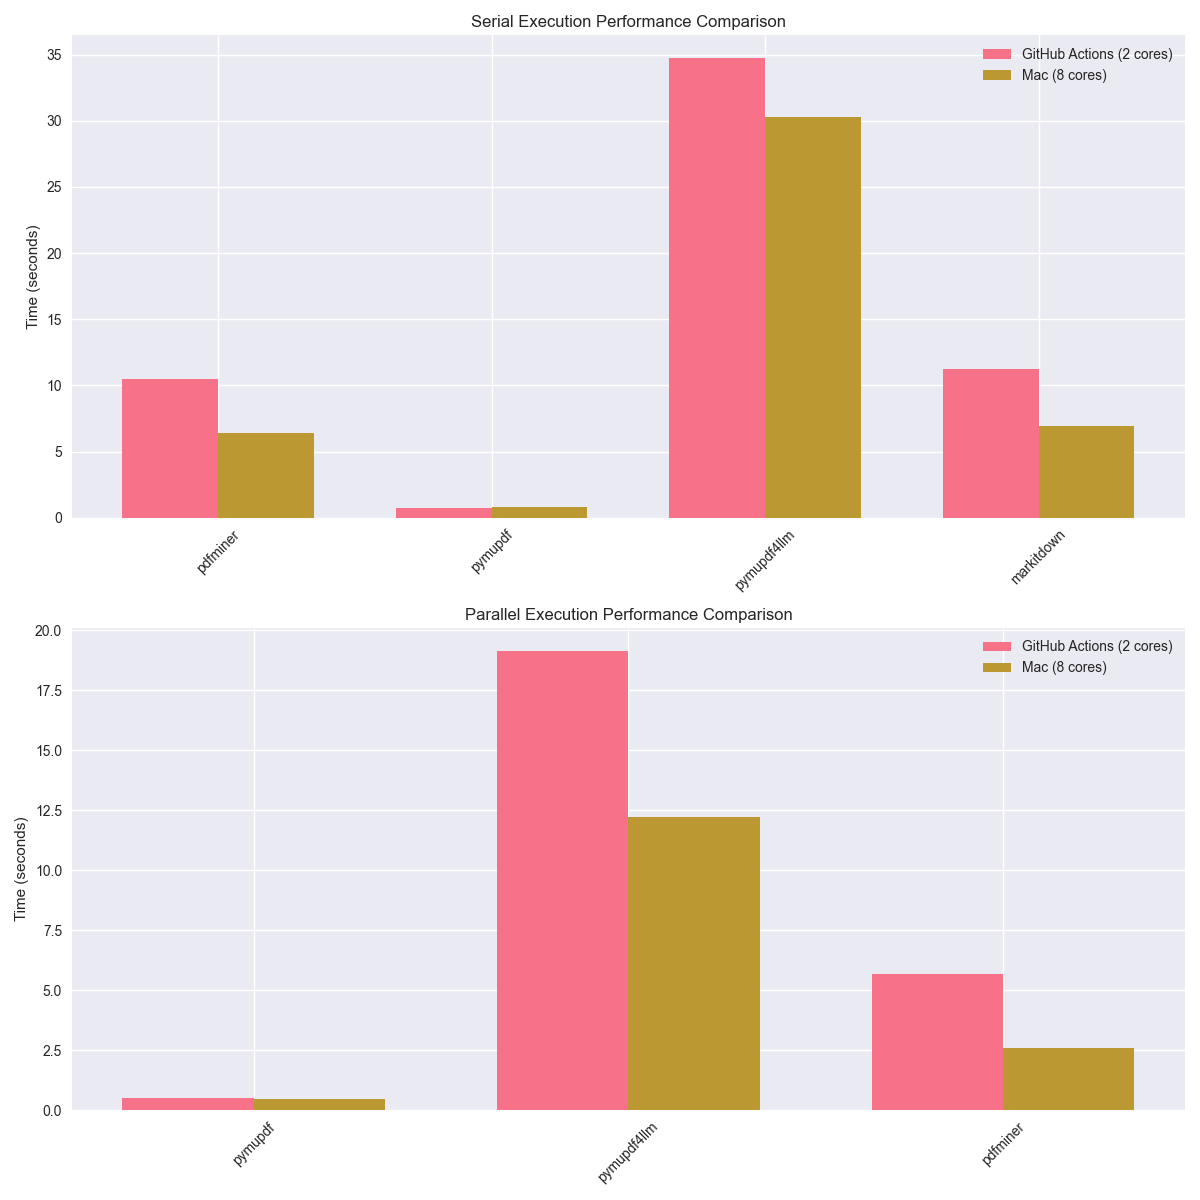
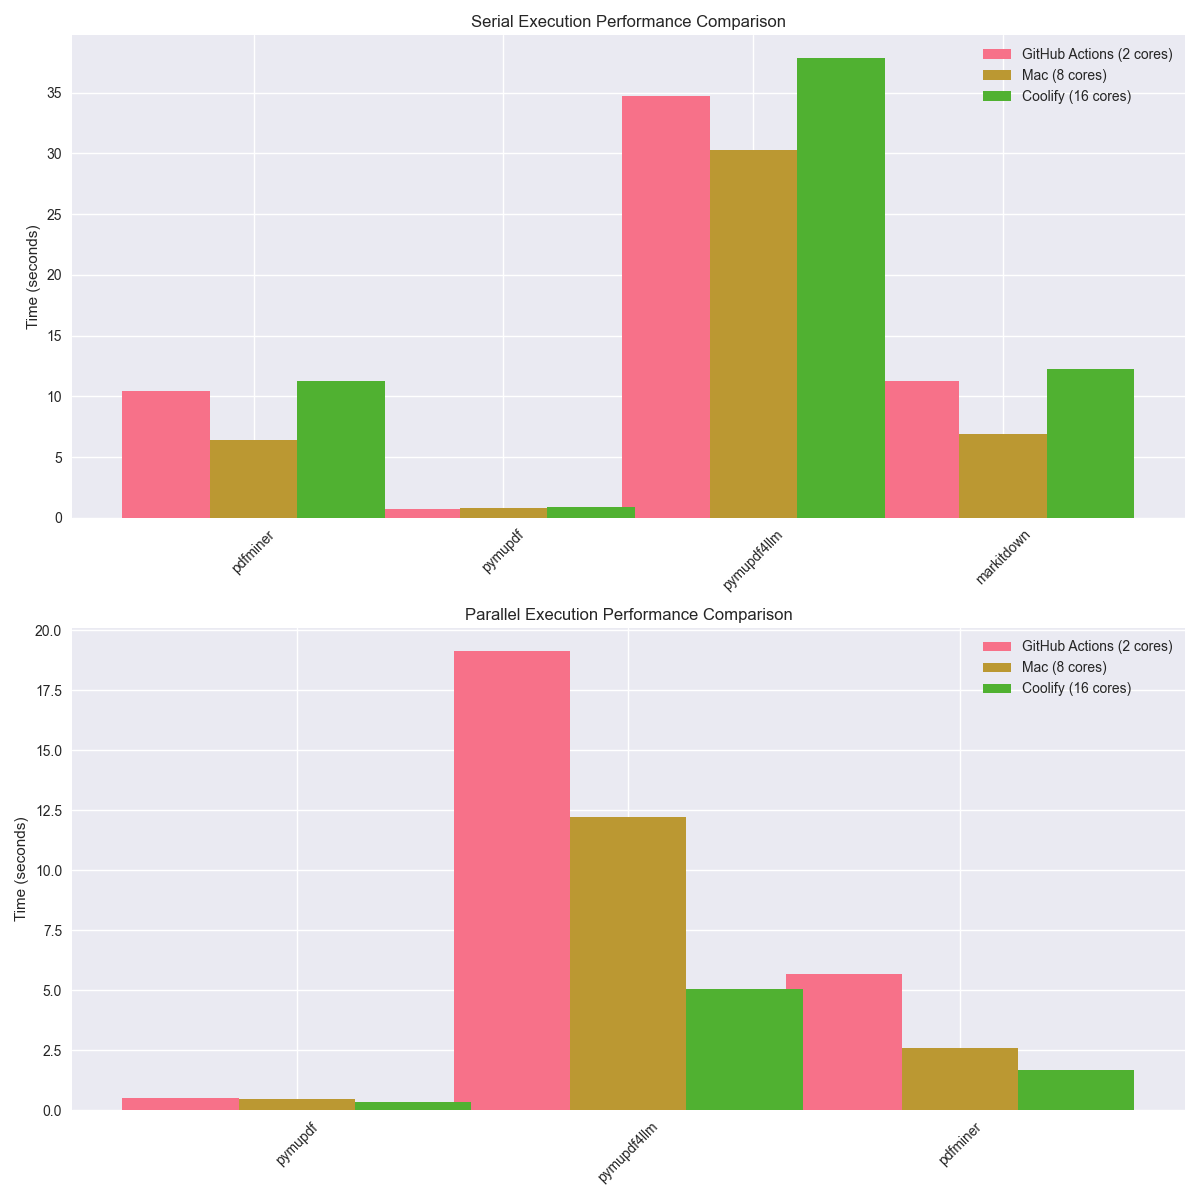
feat: add Coolify benchmark results and update visualization

diff --git a/result/visualize.py b/result/visualize.py
@@ -5,6 +5,7 @@ import seaborn as sns
 # Read the CSV files
 github_df = pd.read_csv("result/github-action.csv")
 mac_df = pd.read_csv("result/mac.csv")
+coolify_df = pd.read_csv("result/coolify.csv")
 
 # Set style
 plt.style.use("seaborn-v0_8")
@@ -22,6 +23,7 @@ def clean_benchmark_name(name):
 # Process data for plotting
 github_df["Clean_Name"] = github_df["Benchmark"].apply(clean_benchmark_name)
 mac_df["Clean_Name"] = mac_df["Benchmark"].apply(clean_benchmark_name)
+coolify_df["Clean_Name"] = coolify_df["Benchmark"].apply(clean_benchmark_name)
 
 # Plot Serial Executions
 serial_data = {
@@ -29,6 +31,7 @@ serial_data = {
         "Mean (s)"
     ].values,
     "Mac (8 cores)": mac_df[mac_df["Type"] == "serial"]["Mean (s)"].values,
+    "Coolify (16 cores)": coolify_df[coolify_df["Type"] == "serial"]["Mean (s)"].values,
 }
 
 labels = [
@@ -39,16 +42,22 @@ x = range(len(labels))
 width = 0.35
 
 ax1.bar(
-    [i - width / 2 for i in x],
+    [i - width for i in x],
     serial_data["GitHub Actions (2 cores)"],
     width,
     label="GitHub Actions (2 cores)",
 )
 ax1.bar(
-    [i + width / 2 for i in x],
+    [i for i in x],
     serial_data["Mac (8 cores)"],
     width,
     label="Mac (8 cores)",
+)
+ax1.bar(
+    [i + width for i in x],
+    serial_data["Coolify (16 cores)"],
+    width,
+    label="Coolify (16 cores)",
 )
 ax1.set_ylabel("Time (seconds)")
 ax1.set_title("Serial Execution Performance Comparison")
@@ -62,6 +71,9 @@ parallel_data = {
         "Mean (s)"
     ].values,
     "Mac (8 cores)": mac_df[mac_df["Type"] == "parallel"]["Mean (s)"].values,
+    "Coolify (16 cores)": coolify_df[coolify_df["Type"] == "parallel"][
+        "Mean (s)"
+    ].values,
 }
 
 labels = [
@@ -71,16 +83,22 @@ labels = [
 x = range(len(labels))
 
 ax2.bar(
-    [i - width / 2 for i in x],
+    [i - width for i in x],
     parallel_data["GitHub Actions (2 cores)"],
     width,
     label="GitHub Actions (2 cores)",
 )
 ax2.bar(
-    [i + width / 2 for i in x],
+    [i for i in x],
     parallel_data["Mac (8 cores)"],
     width,
     label="Mac (8 cores)",
+)
+ax2.bar(
+    [i + width for i in x],
+    parallel_data["Coolify (16 cores)"],
+    width,
+    label="Coolify (16 cores)",
 )
 ax2.set_ylabel("Time (seconds)")
 ax2.set_title("Parallel Execution Performance Comparison")
